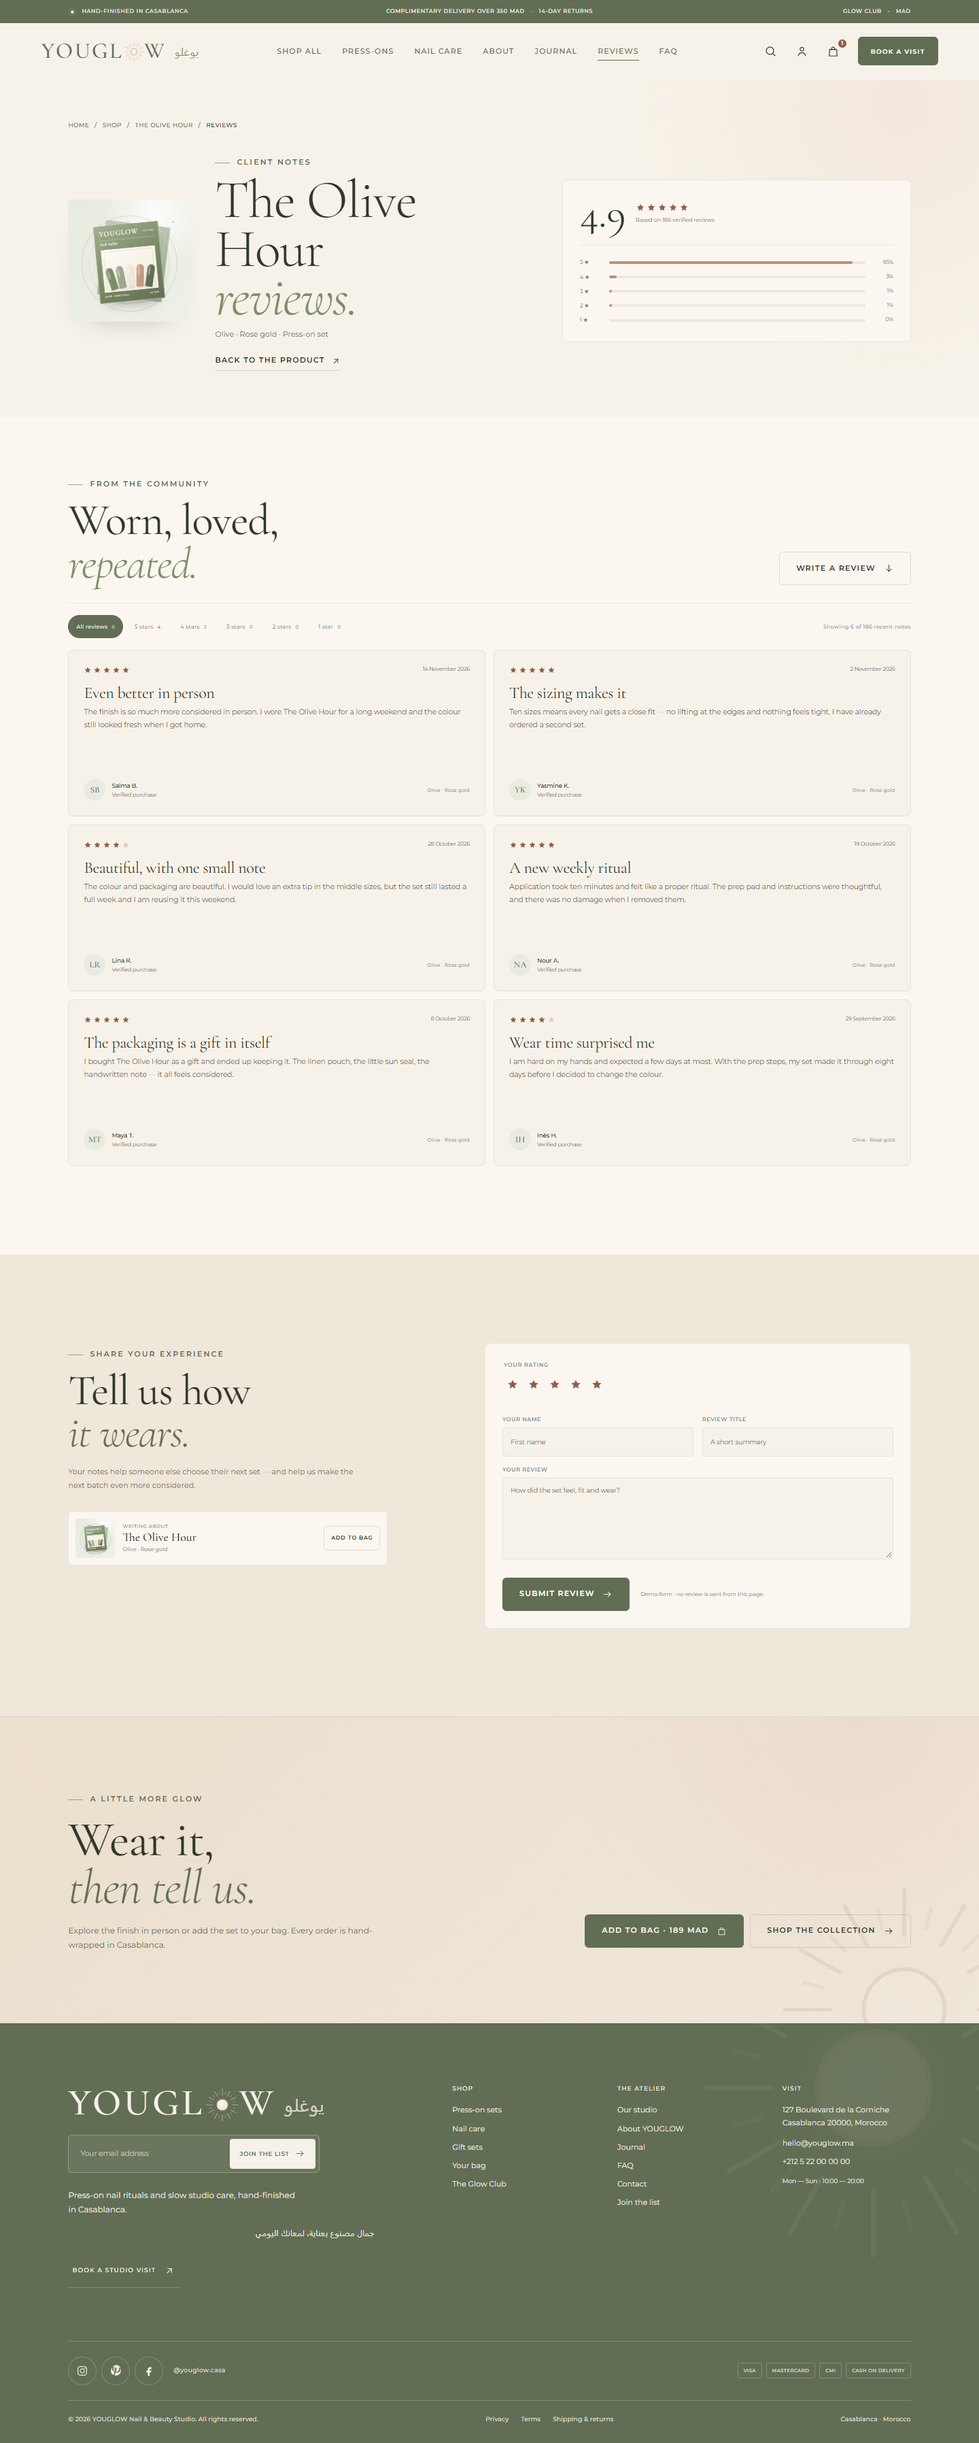
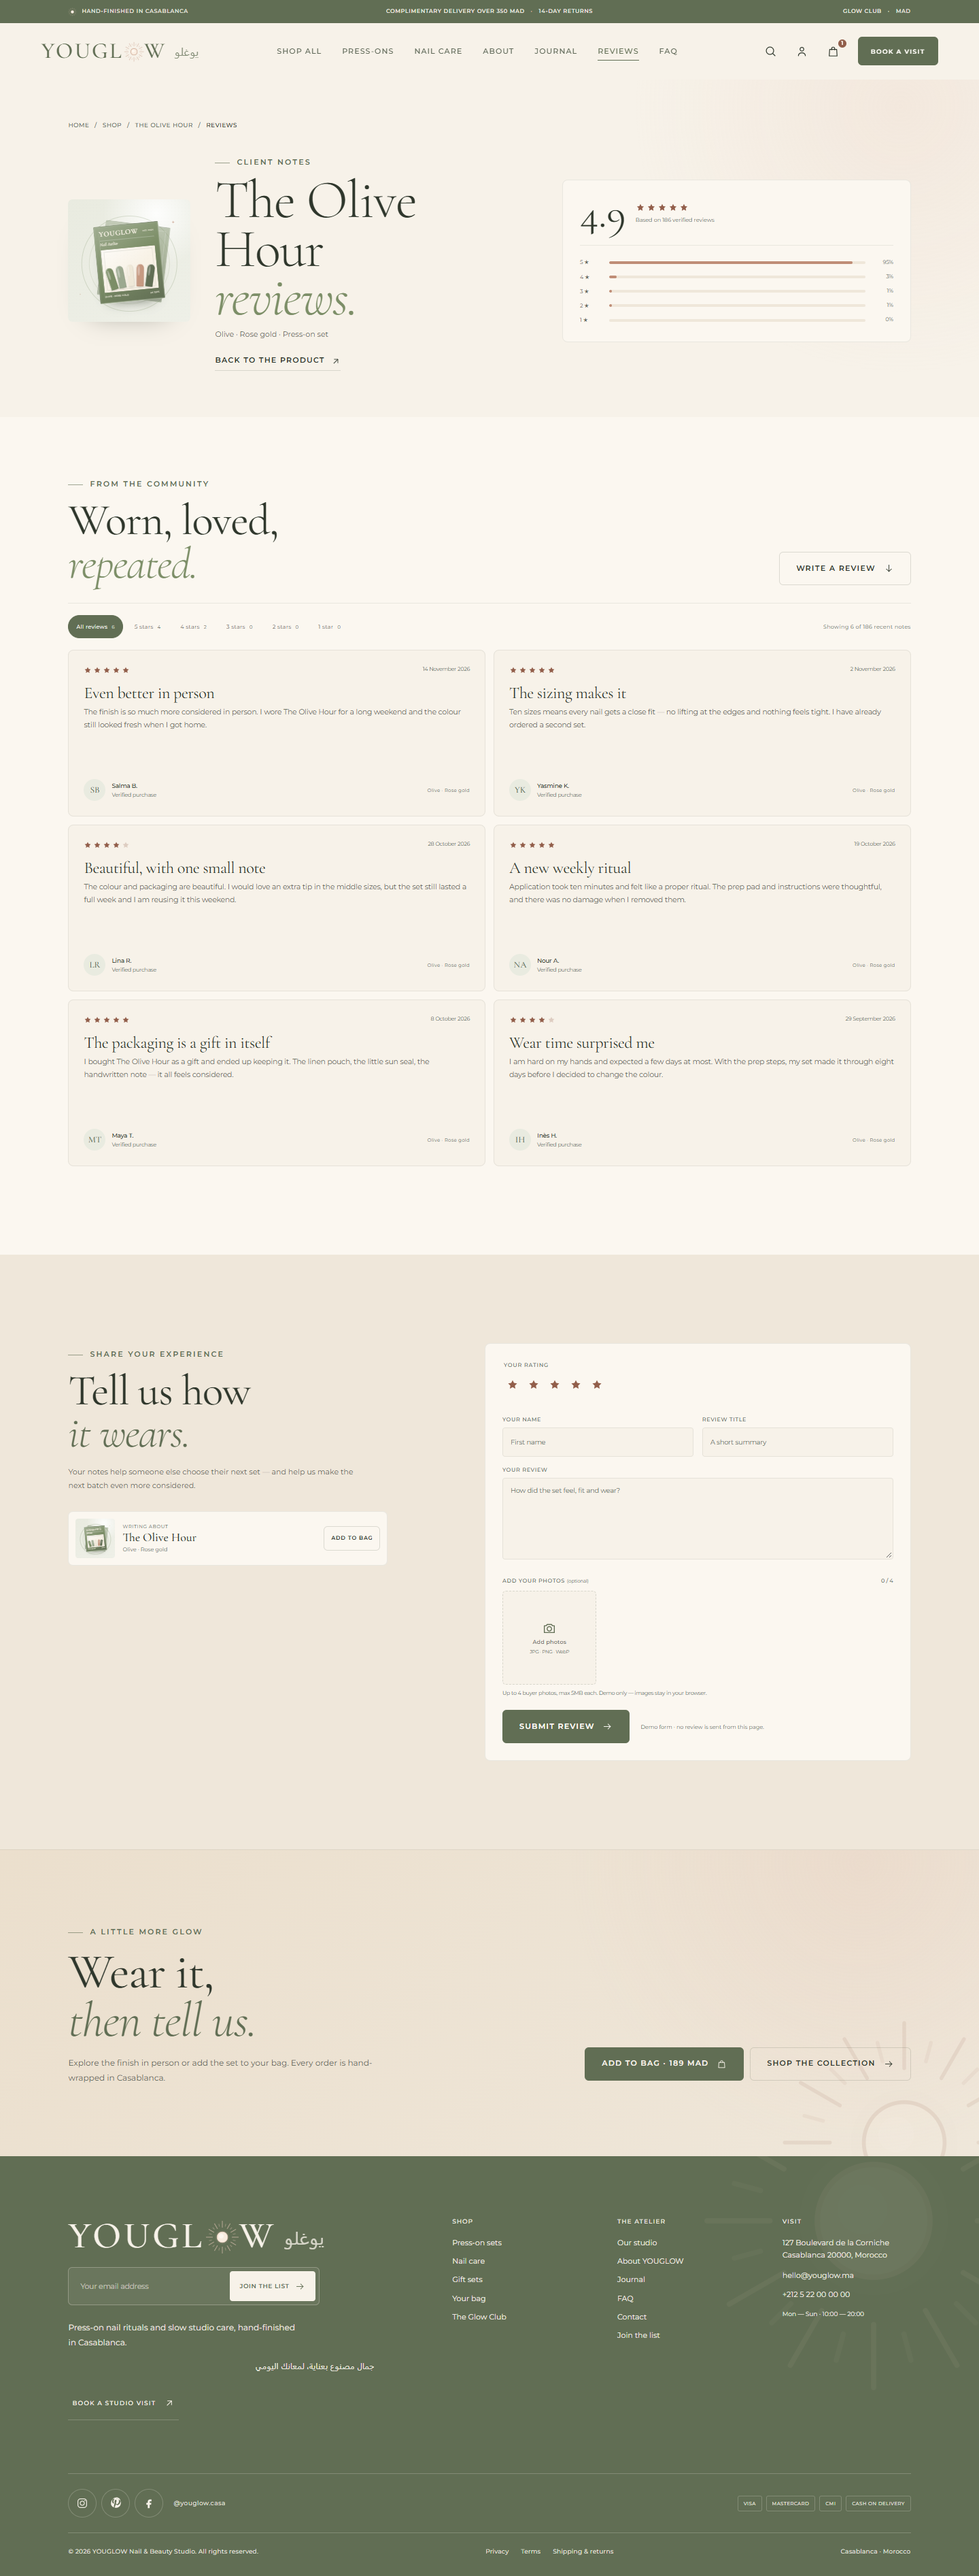
feat: add buyer photo uploads to reviews

diff --git a/src/pages/ReviewsPage.vue b/src/pages/ReviewsPage.vue
@@ -1,5 +1,5 @@
 <script setup>
-import { computed, ref, watchEffect } from 'vue'
+import { computed, onBeforeUnmount, ref, watchEffect } from 'vue'
 import { RouterLink, useRoute } from 'vue-router'
 import Icon from '../components/Icon.vue'
 import PageCta from '../components/PageCta.vue'
@@ -26,8 +26,60 @@ const reviewRating = ref(5)
 const reviewName = ref('')
 const reviewTitle = ref('')
 const reviewBody = ref('')
+const reviewPhotos = ref([])
+const photoError = ref('')
 const errors = ref({})
 const submitted = ref(false)
+const MAX_PHOTOS = 4
+const MAX_PHOTO_SIZE = 5 * 1024 * 1024
+const ALLOWED_PHOTO_TYPES = ['image/jpeg', 'image/png', 'image/webp']
+let photoId = 0
+
+function addPhotos(event) {
+  const files = Array.from(event.target.files || [])
+  const next = [...reviewPhotos.value]
+  let message = ''
+
+  for (const file of files) {
+    if (next.length >= MAX_PHOTOS) {
+      message = `You can add up to ${MAX_PHOTOS} photos.`
+      break
+    }
+    if (!ALLOWED_PHOTO_TYPES.includes(file.type)) {
+      message = 'Please use a JPG, PNG or WebP image.'
+      continue
+    }
+    if (file.size > MAX_PHOTO_SIZE) {
+      message = `${file.name} is larger than 5MB.`
+      continue
+    }
+
+    next.push({
+      id: `review-photo-${++photoId}`,
+      name: file.name,
+      url: URL.createObjectURL(file),
+    })
+  }
+
+  reviewPhotos.value = next
+  photoError.value = message
+  event.target.value = ''
+}
+
+function removePhoto(id) {
+  const photo = reviewPhotos.value.find((item) => item.id === id)
+  if (photo) URL.revokeObjectURL(photo.url)
+  reviewPhotos.value = reviewPhotos.value.filter((item) => item.id !== id)
+  photoError.value = ''
+}
+
+function clearPhotos() {
+  reviewPhotos.value.forEach((photo) => URL.revokeObjectURL(photo.url))
+  reviewPhotos.value = []
+  photoError.value = ''
+}
+
+onBeforeUnmount(clearPhotos)
 
 function reviewCountFor(stars) {
   return reviews.value.filter((review) => review.rating === stars).length
@@ -50,6 +102,7 @@ function writeAnother() {
   reviewName.value = ''
   reviewTitle.value = ''
   reviewBody.value = ''
+  clearPhotos()
   errors.value = {}
 }
 
@@ -219,6 +272,16 @@ watchEffect(() => {
               for moderation.
             </p>
             <p class="review-success__demo">Demo form — your review has not been published.</p>
+
+            <div v-if="reviewPhotos.length" class="review-success__photos" role="group" aria-label="Attached buyer photos">
+              <img
+                v-for="(photo, index) in reviewPhotos"
+                :key="photo.id"
+                :src="photo.url"
+                :alt="`Buyer photo ${index + 1}`"
+              />
+            </div>
+
             <button type="button" class="btn btn--outline" @click="writeAnother">Write another review</button>
           </div>
 
@@ -275,6 +338,44 @@ watchEffect(() => {
                 :aria-describedby="errors.body ? 'review-body-error' : undefined"
               />
               <p v-if="errors.body" id="review-body-error" class="field__error" role="alert">{{ errors.body }}</p>
+            </div>
+
+            <div class="review-form__photos">
+              <div class="review-form__photos-head">
+                <span>Add your photos <small>(optional)</small></span>
+                <span>{{ reviewPhotos.length }} / {{ MAX_PHOTOS }}</span>
+              </div>
+
+              <div class="review-photo-grid">
+                <figure v-for="(photo, index) in reviewPhotos" :key="photo.id" class="review-photo">
+                  <img :src="photo.url" :alt="`Buyer photo ${index + 1} preview`" />
+                  <button type="button" :aria-label="`Remove ${photo.name}`" @click="removePhoto(photo.id)">
+                    <Icon name="close" :size="12" />
+                  </button>
+                </figure>
+
+                <label v-if="reviewPhotos.length < MAX_PHOTOS" class="review-photo-upload">
+                  <input
+                    id="review-photos"
+                    type="file"
+                    accept="image/jpeg,image/png,image/webp"
+                    multiple
+                    class="sr-only"
+                    :aria-describedby="photoError ? 'review-photo-error' : 'review-photo-help'"
+                    @change="addPhotos"
+                  />
+                  <Icon name="camera" :size="22" />
+                  <span>Add photos</span>
+                  <small>JPG · PNG · WebP</small>
+                </label>
+              </div>
+
+              <p id="review-photo-help" class="review-form__photo-help">
+                Up to {{ MAX_PHOTOS }} buyer photos, max 5MB each. Demo only — images stay in your browser.
+              </p>
+              <p v-if="photoError" id="review-photo-error" class="review-form__photo-error" role="alert">
+                {{ photoError }}
+              </p>
             </div>
 
             <div class="review-form__submit">
@@ -884,6 +985,134 @@ watchEffect(() => {
   font-size: 8px;
 }
 
+.review-form__photos {
+  margin-top: 16px;
+}
+
+.review-form__photos-head {
+  display: flex;
+  align-items: baseline;
+  justify-content: space-between;
+  gap: 12px;
+  margin-bottom: 8px;
+  color: var(--ink-faint);
+  font-size: 8px;
+  font-weight: 500;
+  letter-spacing: 0.08em;
+  text-transform: uppercase;
+}
+
+.review-form__photos-head small {
+  color: var(--ink-faint);
+  font-weight: 400;
+  letter-spacing: 0;
+  text-transform: none;
+}
+
+.review-form__photos-head > span:last-child {
+  font-size: 7.5px;
+  letter-spacing: 0.02em;
+}
+
+.review-photo-grid {
+  display: grid;
+  grid-template-columns: repeat(4, minmax(0, 1fr));
+  gap: 7px;
+}
+
+.review-photo {
+  position: relative;
+  margin: 0;
+  overflow: hidden;
+  border: 1px solid var(--line-soft);
+  border-radius: 5px;
+  background: var(--cream-deep);
+  aspect-ratio: 1;
+}
+
+.review-photo img {
+  width: 100%;
+  height: 100%;
+  object-fit: cover;
+}
+
+.review-photo button {
+  position: absolute;
+  top: 4px;
+  right: 4px;
+  display: grid;
+  width: 24px;
+  height: 24px;
+  place-items: center;
+  border-radius: 50%;
+  background: rgba(47, 55, 44, 0.86);
+  color: var(--cream);
+  transition: background-color 200ms ease;
+}
+
+.review-photo button:hover {
+  background: var(--rose-deep);
+}
+
+.review-photo-upload {
+  display: flex;
+  cursor: pointer;
+  flex-direction: column;
+  align-items: center;
+  justify-content: center;
+  gap: 3px;
+  border: 1px dashed var(--line);
+  border-radius: 5px;
+  background: var(--cream);
+  color: var(--ink-soft);
+  text-align: center;
+  aspect-ratio: 1;
+  transition:
+    border-color 200ms ease,
+    background-color 200ms ease;
+}
+
+.review-photo-upload:hover,
+.review-photo-upload:has(input:focus-visible) {
+  border-color: var(--sage);
+  background: var(--cream-soft);
+}
+
+.review-photo-upload:has(input:focus-visible) {
+  outline: 2px solid var(--sage-deep);
+  outline-offset: 2px;
+}
+
+.review-photo-upload :deep(svg) {
+  color: var(--sage-deep);
+}
+
+.review-photo-upload span {
+  font-size: 8px;
+  font-weight: 500;
+  letter-spacing: 0.03em;
+}
+
+.review-photo-upload small {
+  color: var(--ink-faint);
+  font-size: 6.5px;
+  line-height: 1.3;
+}
+
+.review-form__photo-help {
+  margin-top: 7px;
+  color: var(--ink-faint);
+  font-size: 7.5px;
+  line-height: 1.6;
+}
+
+.review-form__photo-error {
+  margin-top: 4px;
+  color: #924c3b;
+  font-size: 8px;
+  line-height: 1.4;
+}
+
 .review-form__submit {
   display: flex;
   align-items: center;
@@ -930,6 +1159,21 @@ watchEffect(() => {
 .review-success__demo {
   color: var(--ink-faint) !important;
   font-size: 8px !important;
+}
+
+.review-success__photos {
+  display: grid;
+  grid-template-columns: repeat(4, minmax(0, 1fr));
+  gap: 6px;
+  margin-top: 14px;
+}
+
+.review-success__photos img {
+  width: 100%;
+  border: 1px solid var(--line-soft);
+  border-radius: 4px;
+  object-fit: cover;
+  aspect-ratio: 1;
 }
 
 .review-success .btn {

diff --git a/src/components/Icon.vue b/src/components/Icon.vue
@@ -11,6 +11,7 @@ const icons = {
   search: '<circle cx="10.8" cy="10.8" r="6.8"/><path d="m16 16 4 4"/>',
   user: '<circle cx="12" cy="8" r="3.4"/><path d="M5.5 20c.5-3.5 2.8-5.2 6.5-5.2s6 1.7 6.5 5.2"/>',
   bag: '<path d="M5.5 8.3h13l.8 12.2h-14.6L5.5 8.3Z"/><path d="M9.2 9V6.9a2.8 2.8 0 0 1 5.6 0V9"/>',
+  camera: '<path d="M4 8h3l1.5-2h7L17 8h3v11H4V8Z"/><circle cx="12" cy="13" r="3.5"/>',
   heart:
     '<path d="M20.8 5.8a5.1 5.1 0 0 0-7.2 0L12 7.4l-1.6-1.6a5.1 5.1 0 0 0-7.2 7.2L12 21l8.8-8.8a5.1 5.1 0 0 0 0-7.2v.8Z"/>',
   star: '<path d="m12 3.2 2.7 5.5 6.1.9-4.4 4.3 1 6.1-5.4-2.9-5.4 2.9 1-6.1-4.4-4.3 6.1-.9L12 3.2Z"/>',

diff --git a/design-system/youglow/MASTER.md b/design-system/youglow/MASTER.md
@@ -182,7 +182,7 @@ All non-home pages reuse the same shell and rhythm:
 - **FAQ**: two-column layout with sticky search/category rail, accordion rows built on native `<details>`, and the first answer open by default.
 - **Shop**: PageHero → search/filter/sort toolbar → product grid → closing CTA. Filter state lives in the query string so a filtered collection can be shared; keyword search is shared by the homepage module and the full Shop page.
 - **Product**: breadcrumb strip, sticky two-column gallery/purchase panel, ritual strip, review panel, related products, closing CTA.
-- **Reviews**: product summary with rating breakdown, star-filter buttons, review cards and a validated review form. Filters stay local to the page; the form is explicitly marked as a demo.
+- **Reviews**: product summary with rating breakdown, star-filter buttons, review cards and a validated review form. Filters stay local to the page; the form is explicitly marked as a demo. Buyer photos support up to four JPG/PNG/WebP files at 5MB each, with local object-URL previews, individual removal and a confirmation gallery; nothing is uploaded to a server.
 - **Cart / checkout**: full-bag page with sticky summary, then a payment page with address, shipping and payment sections. The checkout is a demo, labels card fields as demo-only and clears the bag after the demo confirmation.
 - **Newsletter**: the subscription input sits directly below the footer logo, with no separate heading, marketing copy block or standalone page section. It uses a compact inline field, explicit validation and a local success state.
 - **Product reviews entry**: the rating summary on a product page is itself an obvious bordered link to `/product/:slug/reviews`, with a visible “Read all reviews” affordance and arrow. Keep a second entry in the lower review section for longer pages.

diff --git a/README.md b/README.md
@@ -48,6 +48,7 @@ The test suite covers desktop navigation, product search and filters, quick view
 - Instant product search on both the homepage shop module and the full Shop page
 - Product detail pages with quantity, wishlist, add-to-bag, accordions and related products
 - Full product reviews pages with rating breakdown, rating filters and a validated demo review form
+- Buyer photo uploads in the review form: up to four JPG/PNG/WebP images, 5MB each, with local previews, removal and confirmation gallery
 - Full cart page and checkout / payment page with delivery and payment options
 - Shared shopping bag drawer: quantity updates, remove, free-delivery progress, subtotal
 - Newsletter subscription integrated directly beneath the footer logo, with no separate marketing copy block
@@ -73,6 +74,7 @@ This is a **front-end storefront demo**, not a production commerce integration:
 
 - Checkout and payment are not connected to a payment provider. The order button deliberately shows a demo confirmation and no payment is taken.
 - Appointment requests, contact messages, product reviews and newsletter subscriptions are validated in the browser and show local success states; nothing is sent to a server.
+- Buyer review photos are previewed locally with object URLs. They are never uploaded or persisted and are released when the page is left.
 - Privacy, Terms and Shipping & Returns are **demonstration templates**, not legal advice. They are marked as templates in the UI and should be reviewed by a qualified professional before launch.
 - Product imagery is demo stock photography, not final brand photography.
 
